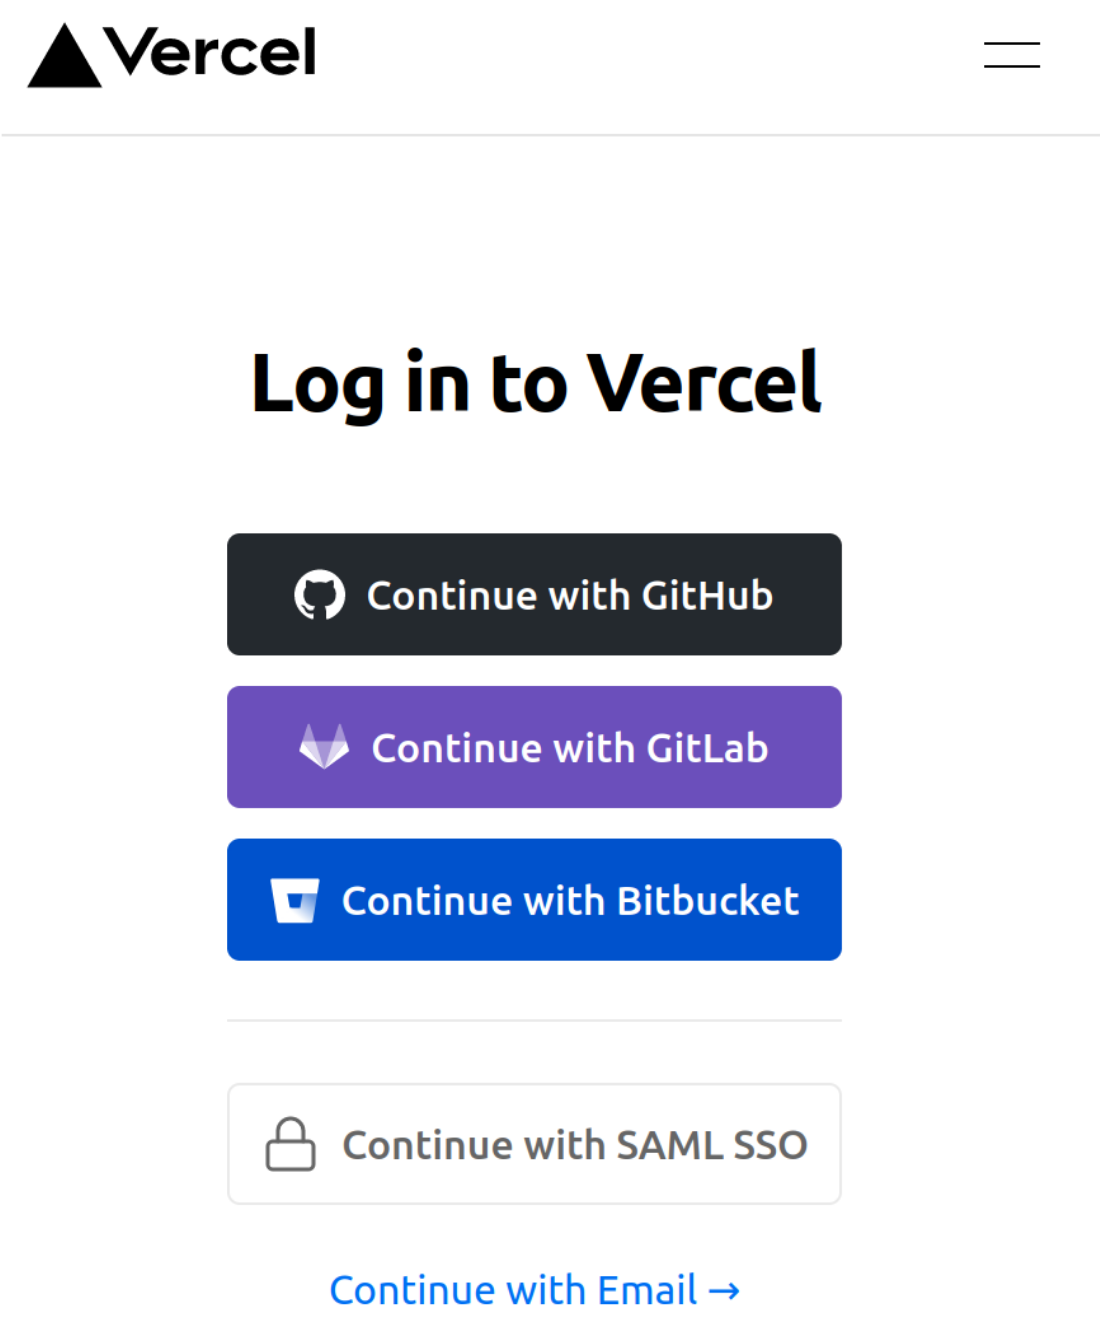
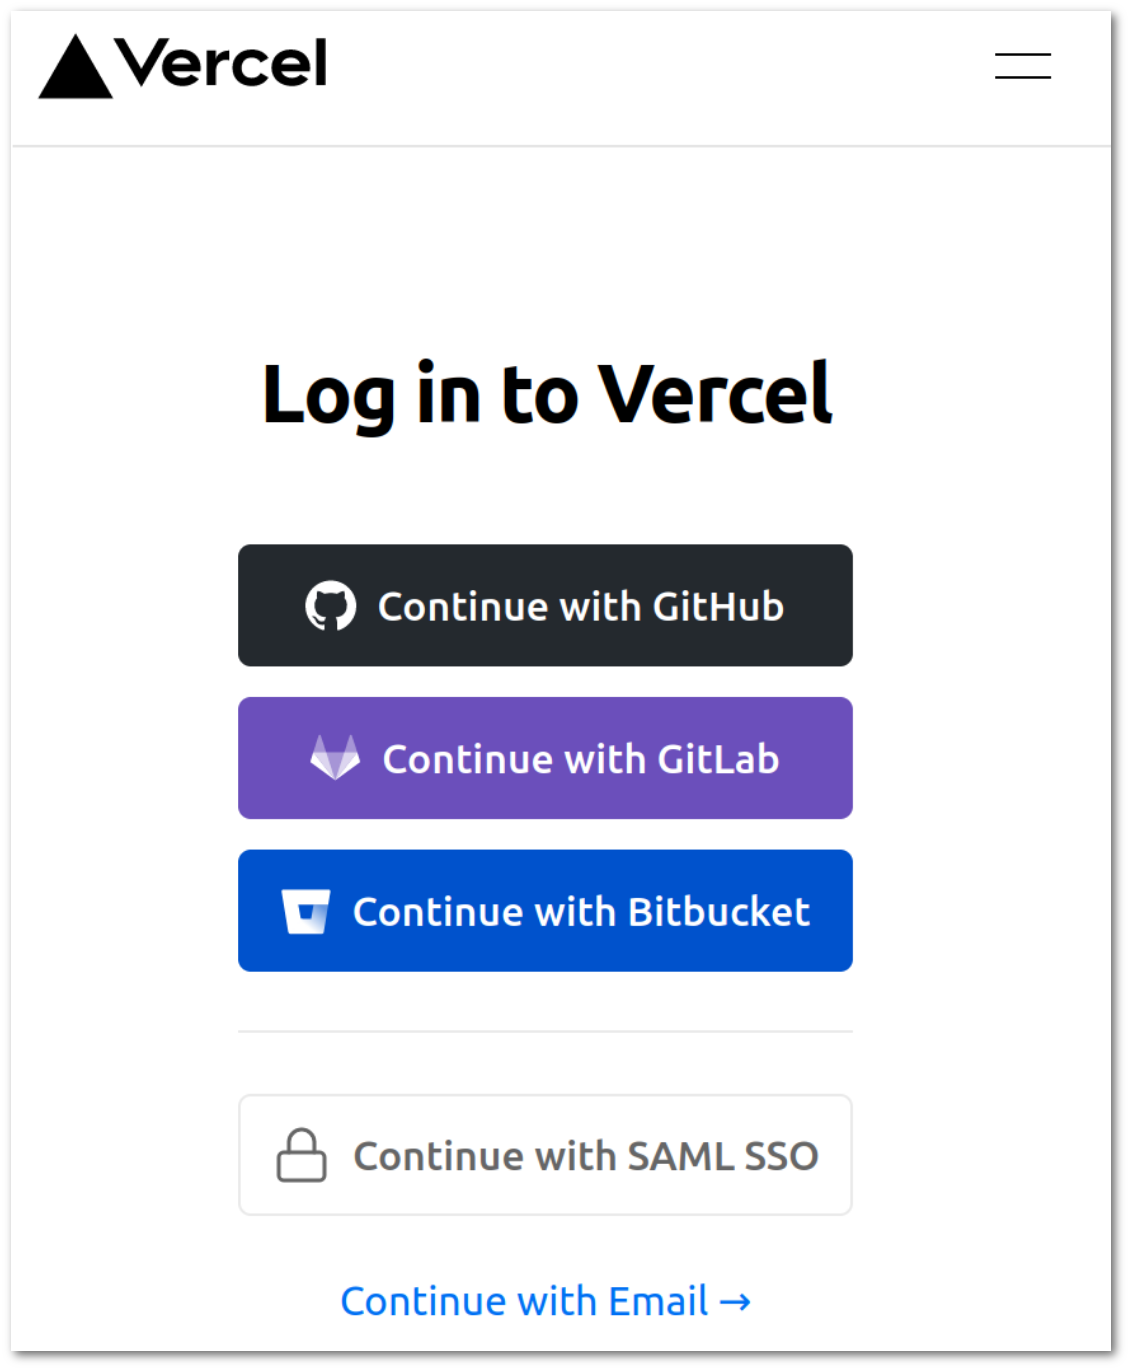
setup doc

diff --git a/doc/setup.md b/doc/setup.md
@@ -338,9 +338,3 @@ site node **Headless Industrial** you can do it from Repository Explorer.
 
 [initiative.md]: ../README.md
 [headless-industrial.yaml]: ../provisioning/headless-industrial.yaml
-
-<style>
-   img:{
-      border:1px solid red;
-   }
-</style>
